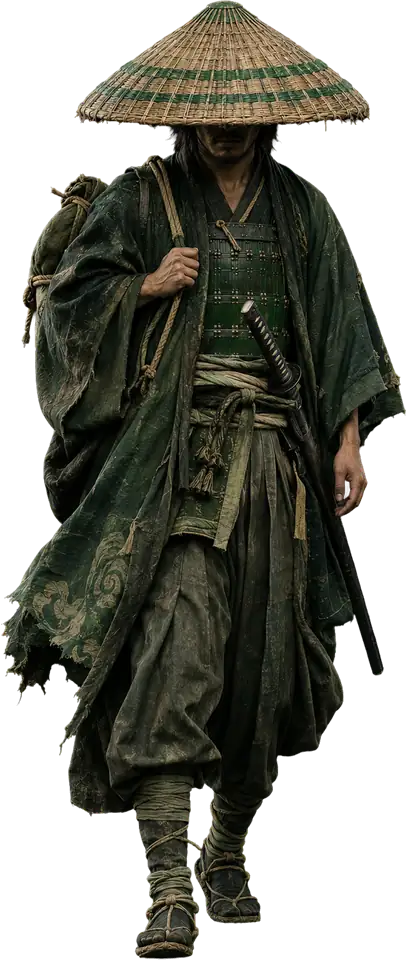
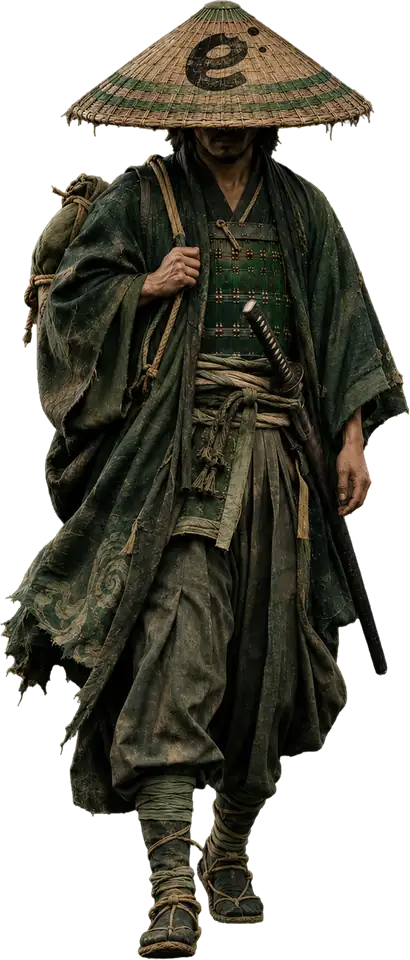
№13 «Чому ми закрили Eated»: новий самурай з логотипом Eated на капелюсі

diff --git a/index.html b/index.html
@@ -787,7 +787,7 @@ const MORE = [
 ];
 COURSES.forEach((c,i)=>{ const m = MORE[i]; c.p = c.p.concat(m[0]); c.f = m[1]; c.r = m[2]; });
 // [пропорція картинки, центр ніг по X] — щоб номер стояв рівно між ніг
-const FEET = [[0.423,0.496],[0.363,0.497],[0.384,0.497],[0.457,0.379],[0.398,0.479],[0.405,0.490],[0.408,0.463],[0.344,0.490],[0.397,0.473],[0.438,0.427],[0.409,0.511],[0.395,0.485],[0.424,0.464],[0.373,0.519],[0.540,0.340]];
+const FEET = [[0.423,0.496],[0.363,0.497],[0.384,0.497],[0.457,0.379],[0.398,0.479],[0.405,0.490],[0.408,0.463],[0.344,0.490],[0.397,0.473],[0.438,0.427],[0.409,0.511],[0.395,0.485],[0.427,0.466],[0.373,0.519],[0.540,0.340]];
 // скільки перших слів назви підсвічувати градієнтом
 const HL = [2,1,1,1,1,1,2,1,1,3,1,2,3,1,2];
 COURSES.forEach((c,i)=>c.hl=HL[i]);
